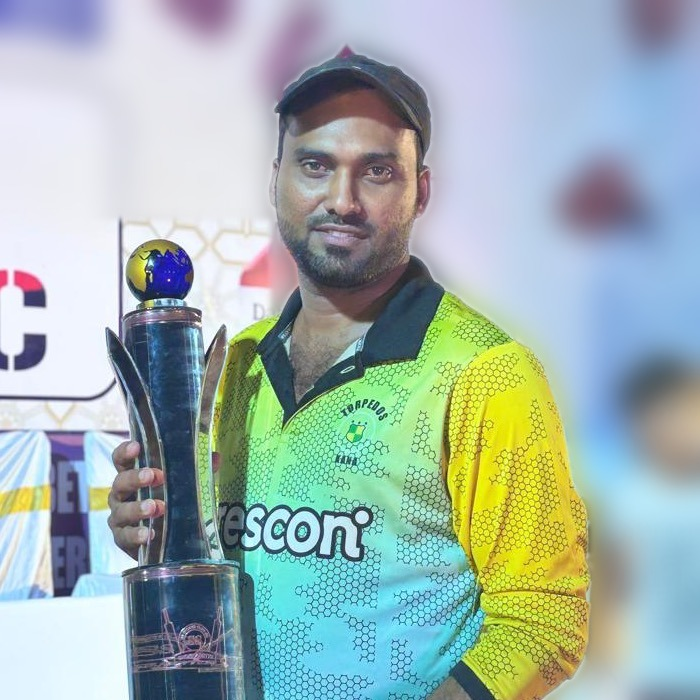
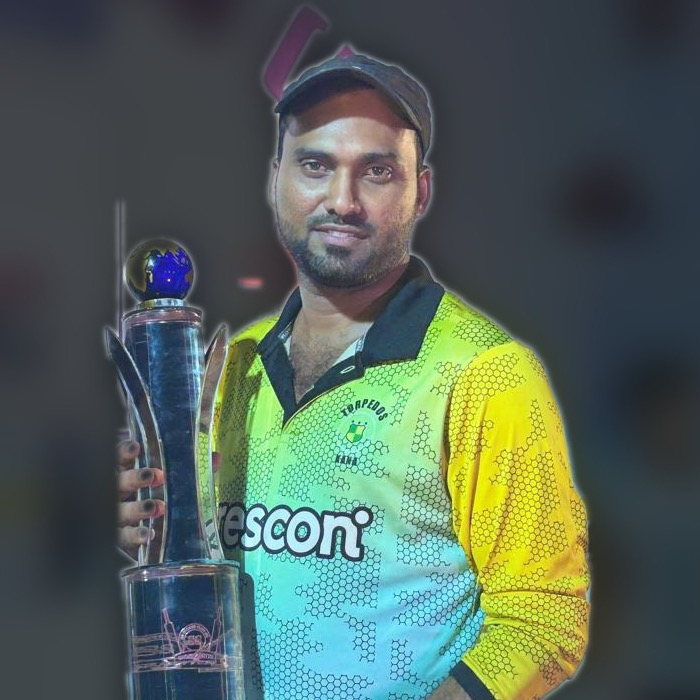
Dark-tinted blur backgrounds for team photos, squad order tweak
- Akram, Nizam, Nizam B, Nawaz, Sinan, Ashwin: dark-tinted blur backdrops
- Trophies preserved via shape masks + selective banner color exclusion
- Sinan added to Team, placed between Chethan and Nawaz
- Card order: Chethan → Nawaz → Sinan

diff --git a/index.html b/index.html
@@ -662,6 +662,16 @@
 
         <div class="player-card card reveal rounded-2xl overflow-hidden" style="background:#1e293b;">
           <div class="aspect-square overflow-hidden">
+            <img src="sinan.jpg" alt="Sinan" class="player-img w-full h-full object-cover" loading="lazy" />
+          </div>
+          <div class="p-4 text-center">
+            <h3 class="font-bold text-white text-sm">Sinan</h3>
+            <span class="mt-2 inline-block px-2 py-0.5 bg-green-DEFAULT text-white text-xs font-semibold rounded-full">Batsman</span>
+          </div>
+        </div>
+
+        <div class="player-card card reveal rounded-2xl overflow-hidden" style="background:#1e293b;">
+          <div class="aspect-square overflow-hidden">
             <img src="ashraf.jpg" alt="Ashraf" class="player-img w-full h-full object-cover" loading="lazy" />
           </div>
           <div class="p-4 text-center">
